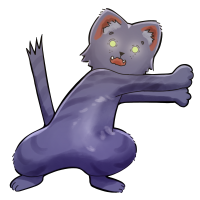
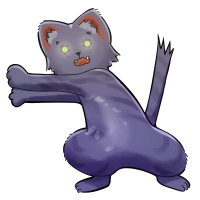
Flip cat1

diff --git a/src/lib/components/NavBar/CatCard.svelte b/src/lib/components/NavBar/CatCard.svelte
@@ -10,7 +10,7 @@
 
 	onMount(() => {
 		if (catObject.chopperCatFound) {
-			card.style.left = '125px';
+			card.style.left = '-5px';
 		}
 	});
 
@@ -28,12 +28,12 @@
 		if (isDragging && card && card.style) {
 			let offset = event.clientX - x;
 			let xf = x0 + offset;
-			if (xf <= 125) {
-				xf = 125;
+			if (xf >= -5) {
+				xf = -5;
 				catFound();
 			}
-			if (xf >= 220) {
-				xf = 220;
+			if (xf <= -100) {
+				xf = -100;
 			}
 			card.style.left = xf.toString() + 'px';
 		}
@@ -53,7 +53,7 @@
 	onmousedown={startDrag}
 	onpointerdown={startDrag}
 	class="unselectable absolute h-30 w-30 touch-none content-center rounded-md text-center"
-	style="top: 90px; left: 220px;"
+	style="top: 90px; left: -100px;"
 >
 	<img src={cat1} alt="Cat number 1" class="unselectable" draggable="false" />
 </div>
